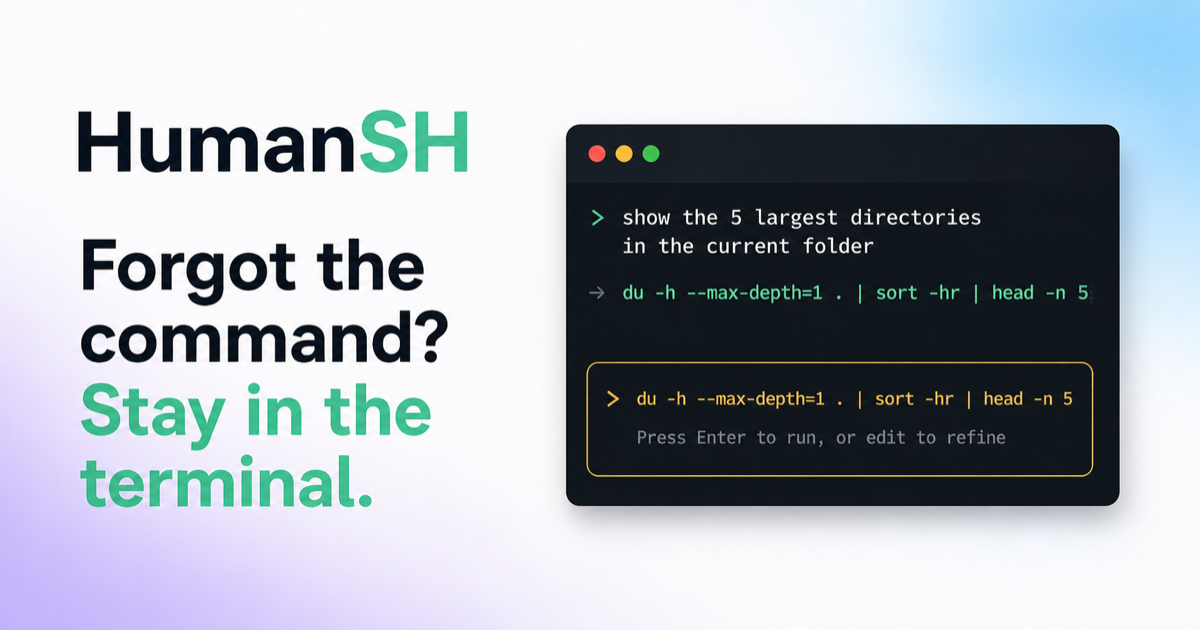
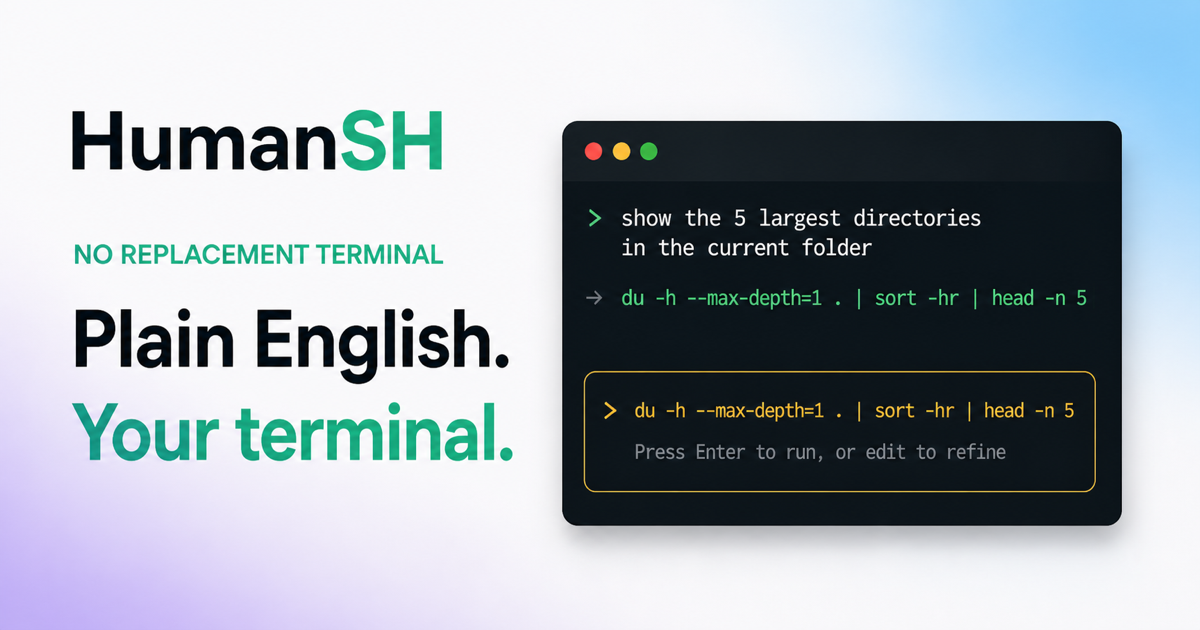
feat(landing): emphasize existing terminal workflow

Changed region(s): [[0.4625, 0.181, 0.9558, 0.8746], [0.0617, 0.3619, 0.4317, 0.8143], [0.0617, 0.1508, 0.4008, 0.2714]]

diff --git a/landingpage/app/page.tsx b/landingpage/app/page.tsx
@@ -7,9 +7,9 @@ const installCommand =
 const trustHighlights = [
   {
     index: "01",
-    eyebrow: "No new AI bill",
-    title: "Use what you already have",
-    body: "Connect a supported AI subscription you already pay for. A new paid API is not required.",
+    eyebrow: "No replacement terminal",
+    title: "Keep the setup you know",
+    body: "HumanSH works inside supported Zsh and Bash prompts in iTerm, Terminal.app, VS Code's terminal, and more.",
   },
   {
     index: "02",
@@ -59,6 +59,11 @@ const safetyFeatures = [
 ];
 
 const faqs = [
+  {
+    question: "Do I need to switch terminal apps?",
+    answer:
+      "No. HumanSH integrates with your shell prompt, so you can keep using iTerm, Terminal.app, VS Code's terminal, or another terminal you prefer. It currently supports Zsh and Bash 4.3+ on macOS and Linux.",
+  },
   {
     question: "Does HumanSH run generated commands automatically?",
     answer:
@@ -129,10 +134,10 @@ export default function Home() {
           <div className="heroGlow heroGlowBlue" aria-hidden="true" />
           <div className="container heroGrid">
             <div className="heroCopy">
-              <p className="eyebrow"><span /> Stay in your terminal</p>
-              <h1>Forgot the command? Stay in the terminal.</h1>
+              <p className="eyebrow"><span /> No replacement terminal</p>
+              <h1>Use plain English in the terminal you already know.</h1>
               <p className="heroLead">
-                Describe what you need. HumanSH writes the command directly into your terminal for review—no chatbot tab, no copy-paste, no lost flow.
+                HumanSH works inside the Zsh or Bash prompt you already use—in iTerm, Terminal.app, VS Code&apos;s terminal, and more. No replacement terminal or unfamiliar interface: describe, review, and run in place.
               </p>
               <div className="heroActions">
                 <a className="button buttonPrimary" href="#install">
@@ -231,11 +236,11 @@ export default function Home() {
               <article className="flowPanel newFlow">
                 <div className="flowPanelHead">
                   <span>With HumanSH</span>
-                  <strong>1 place · 3 steps</strong>
+                  <strong>Same terminal · 3 steps</strong>
                 </div>
                 <div className="flowVisual newFlowVisual">
                   <div className="miniWindow terminalWindow largeTerminalWindow">
-                    <div className="miniBar"><span>Terminal</span><span className="liveLabel"><i /> in flow</span></div>
+                    <div className="miniBar"><span>Your usual terminal</span><span className="liveLabel"><i /> in flow</span></div>
                     <div className="miniBody newFlowBody">
                       <p><span>%</span> show which process is using port 3000</p>
                       <p><span>%</span> lsof -nP -iTCP:3000 -sTCP:LISTEN<i /></p>

diff --git a/landingpage/app/layout.tsx b/landingpage/app/layout.tsx
@@ -20,9 +20,9 @@ export async function generateMetadata(): Promise<Metadata> {
     requestHeaders.get("x-forwarded-proto") ??
     (host.startsWith("localhost") ? "http" : "https");
   const origin = `${protocol}://${host}`;
-  const title = "HumanSH — Stay in your terminal";
+  const title = "HumanSH — Plain English in your terminal";
   const description =
-    "Describe the command you need in plain English. HumanSH writes it directly into your terminal for review—no chatbot tab, no copy-paste, no lost flow.";
+    "Use plain English in the terminal you already know. HumanSH works inside your existing Zsh or Bash prompt—no replacement terminal or unfamiliar interface.";
 
   return {
     title,
@@ -30,9 +30,9 @@ export async function generateMetadata(): Promise<Metadata> {
     metadataBase: new URL(origin),
     alternates: { canonical: origin },
     openGraph: {
-      title: "HumanSH — Forgot the command? Stay in the terminal.",
+      title: "HumanSH — Plain English in the terminal you already use.",
       description:
-        "Plain English in. Reviewable commands out. Nothing runs until you approve it.",
+        "No replacement terminal. Describe, review, and run commands in your existing prompt.",
       type: "website",
       url: origin,
       images: [
@@ -46,9 +46,9 @@ export async function generateMetadata(): Promise<Metadata> {
     },
     twitter: {
       card: "summary_large_image",
-      title: "HumanSH — Forgot the command? Stay in the terminal.",
+      title: "HumanSH — Plain English in the terminal you already use.",
       description:
-        "Plain English in. Reviewable commands out. Nothing runs until you approve it.",
+        "No replacement terminal. Describe, review, and run commands in your existing prompt.",
       images: [`${origin}/og.png`],
     },
   };
